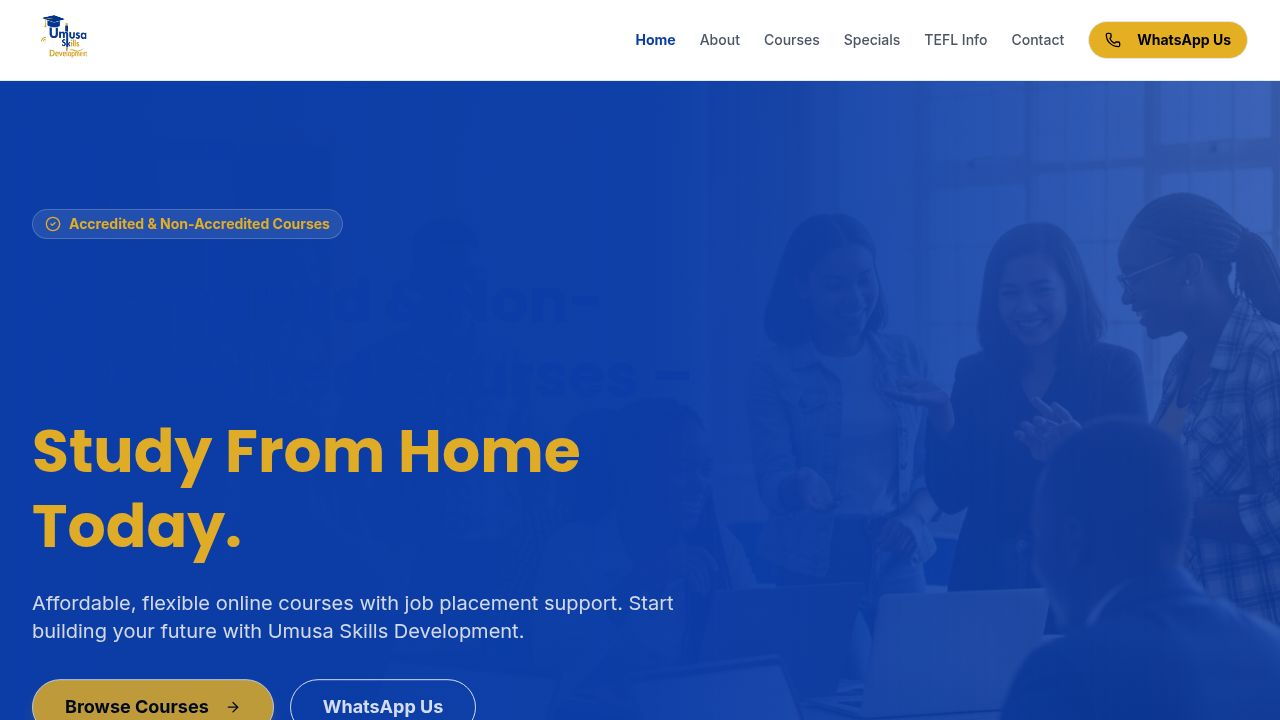
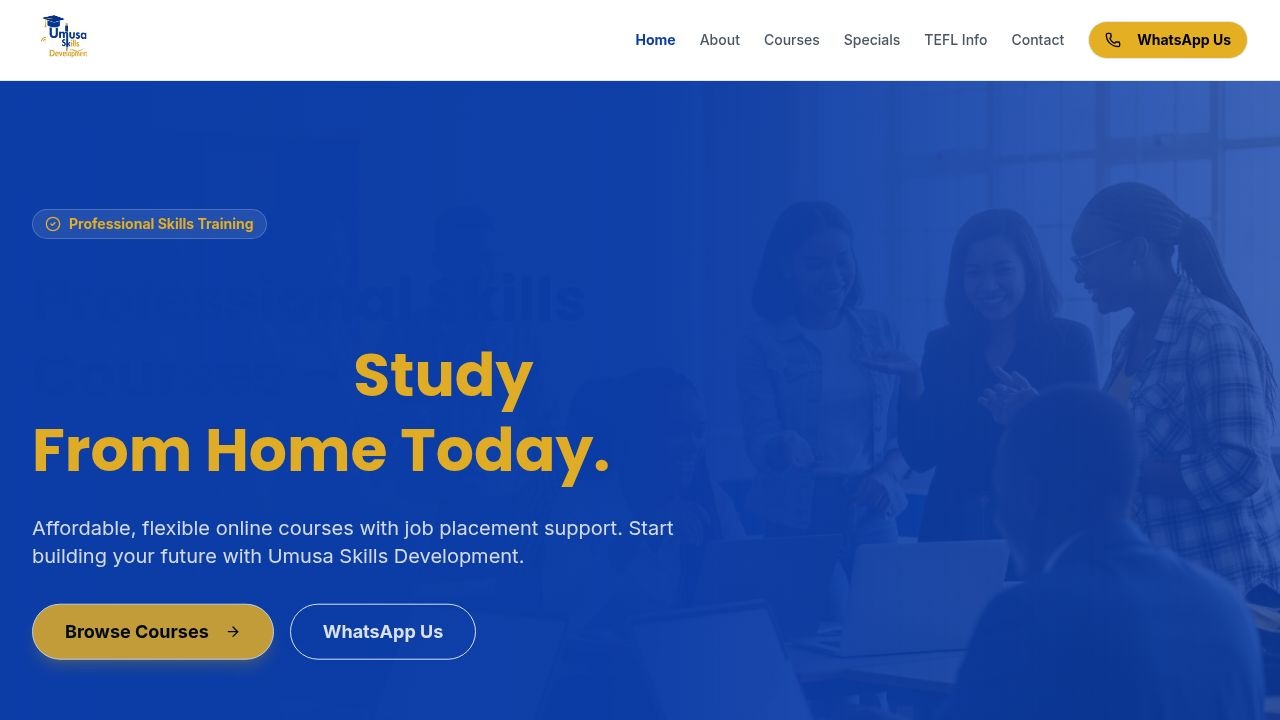
Remove accredited courses from website listings
Removes QCTO courses from constants, contact form dropdown, and course card logic. Updates Hero, About, Courses, and Home page copy to reflect a focus on "Professional Skills Training" rather than accredited/non-accredited distinctions. Adjusts Specials page copy and Home page promo banner.

Replit-Commit-Author: Agent
Replit-Commit-Session-Id: 4625761d-789d-48bb-b031-1900678481e6
Replit-Commit-Checkpoint-Type: full_checkpoint
Replit-Commit-Event-Id: 75a178ed-ae80-4335-b8ac-8633144ecca5
Replit-Commit-Screenshot-Url: https://storage.googleapis.com/screenshot-production-us-central1/71c92c70-5b42-4bcb-acd3-e33669495b83/4625761d-789d-48bb-b031-1900678481e6/Fhgc4hh
Replit-Helium-Checkpoint-Created: true

diff --git a/client/src/pages/Courses.tsx b/client/src/pages/Courses.tsx
@@ -3,8 +3,7 @@ import Layout from "@/components/layout/Layout";
 import CourseCard from "@/components/ui/CourseCard";
 import { Button } from "@/components/ui/button";
 import { Input } from "@/components/ui/input";
-import { Tabs, TabsContent, TabsList, TabsTrigger } from "@/components/ui/tabs";
-import { GENERAL_COURSES, QCTO_COURSES } from "@/lib/constants";
+import { GENERAL_COURSES } from "@/lib/constants";
 import { Search } from "lucide-react";
 import tradesImage from "@assets/generated_images/trades_training_for_courses_page.png";
 
@@ -25,7 +24,7 @@ export default function Courses() {
         <div className="container relative z-10 mx-auto px-4 md:px-8 text-center">
           <h1 className="text-4xl md:text-5xl font-bold mb-6 font-heading">Our Courses</h1>
           <p className="text-xl text-blue-100 max-w-2xl mx-auto mb-8">
-            Explore our wide range of accredited and non-accredited courses designed to get you hired.
+            Explore our wide range of professional skills courses designed to get you hired.
           </p>
           <div className="max-w-md mx-auto relative">
             <Search className="absolute left-3 top-1/2 -translate-y-1/2 text-gray-400 w-5 h-5" />
@@ -40,50 +39,16 @@ export default function Courses() {
       </div>
 
       <div className="container mx-auto px-4 md:px-8 py-12">
-        <Tabs defaultValue="general" className="w-full">
-          <div className="flex justify-center mb-12">
-            <TabsList className="h-auto p-1 bg-gray-100 rounded-full">
-              <TabsTrigger 
-                value="general" 
-                className="rounded-full px-8 py-3 text-base font-medium data-[state=active]:bg-brand-blue data-[state=active]:text-white transition-all"
-              >
-                General Courses
-              </TabsTrigger>
-              <TabsTrigger 
-                value="qcto" 
-                className="rounded-full px-8 py-3 text-base font-medium data-[state=active]:bg-brand-blue data-[state=active]:text-white transition-all"
-              >
-                QCTO Accredited
-              </TabsTrigger>
-            </TabsList>
-          </div>
-
-          <TabsContent value="general">
-            <div className="grid grid-cols-1 sm:grid-cols-2 lg:grid-cols-3 xl:grid-cols-4 gap-6">
-              {filterCourses(GENERAL_COURSES).map((course) => (
-                <CourseCard 
-                  key={course} 
-                  title={course} 
-                  category="General"
-                  image={tradesImage} // Placeholder reuse
-                />
-              ))}
-            </div>
-          </TabsContent>
-
-          <TabsContent value="qcto">
-            <div className="grid grid-cols-1 sm:grid-cols-2 lg:grid-cols-3 xl:grid-cols-4 gap-6">
-              {filterCourses(QCTO_COURSES).map((course) => (
-                <CourseCard 
-                  key={course} 
-                  title={course} 
-                  category="QCTO Accredited"
-                  image={tradesImage} // Placeholder reuse
-                />
-              ))}
-            </div>
-          </TabsContent>
-        </Tabs>
+        <div className="grid grid-cols-1 sm:grid-cols-2 lg:grid-cols-3 xl:grid-cols-4 gap-6">
+          {filterCourses(GENERAL_COURSES).map((course) => (
+            <CourseCard 
+              key={course} 
+              title={course} 
+              category="Professional Skills"
+              image={tradesImage} // Placeholder reuse
+            />
+          ))}
+        </div>
 
         {/* Info Box */}
         <div className="mt-20 bg-yellow-50 border border-yellow-100 rounded-2xl p-8 text-center max-w-3xl mx-auto">

diff --git a/client/src/pages/Home.tsx b/client/src/pages/Home.tsx
@@ -6,10 +6,9 @@ import { GENERAL_COURSES, TESTIMONIALS } from "@/lib/constants";
 import {
   ArrowRight,
   Star,
-  ShieldCheck,
+  CheckCircle,
   Laptop,
   Users,
-  Trophy,
 } from "lucide-react";
 import { Link } from "wouter";
 import officeImage from "@assets/generated_images/office_administration_training.png";
@@ -43,9 +42,9 @@ export default function Home() {
           <div className="grid grid-cols-1 md:grid-cols-3 gap-8">
             {[
               {
-                icon: ShieldCheck,
-                title: "Accredited Training",
-                desc: "Recognized qualifications that open doors to employment.",
+                icon: CheckCircle,
+                title: "Quality Training",
+                desc: "Comprehensive skills training designed for the workplace.",
               },
               {
                 icon: Laptop,
@@ -98,7 +97,7 @@ export default function Home() {
               <CourseCard
                 key={course}
                 title={course}
-                category="General"
+                category="Professional Skills"
                 image={course.includes("TEFL") ? teflImage : officeImage}
                 featured={i === 0}
               />
@@ -112,21 +111,20 @@ export default function Home() {
         <div className="absolute inset-0 bg-[url('https://images.unsplash.com/photo-1517245386807-bb43f82c33c4?auto=format&fit=crop&q=80')] opacity-10 bg-cover bg-center mix-blend-overlay" />
         <div className="container relative z-10 mx-auto px-4 md:px-8 text-center">
           <span className="inline-block px-4 py-1 rounded-full bg-brand-gold text-black font-bold text-sm mb-6 animate-pulse">
-            LIMITED TIME OFFER
+            MONTHLY SPECIALS
           </span>
           <h2 className="text-4xl md:text-5xl font-bold mb-6 font-heading">
-            Black Friday Specials On Now!
+            Unlock Your Potential for Less
           </h2>
           <p className="text-xl text-blue-100 mb-8 max-w-2xl mx-auto">
-            Get your Free TEFL Certificate + R2000 Study Guide included when you
-            register today.
+            Check out our latest special offers and save on your registration and course fees.
           </p>
           <Button
             asChild
             size="lg"
             className="bg-white text-brand-blue hover:bg-gray-100 font-bold h-14 px-8 text-lg rounded-full"
           >
-            <Link href="/specials">Claim Offer Now</Link>
+            <Link href="/specials">View Current Specials</Link>
           </Button>
         </div>
       </section>

diff --git a/client/src/lib/constants.ts b/client/src/lib/constants.ts
@@ -31,21 +31,7 @@ export const GENERAL_COURSES = [
   "Personal Development", "Digital Marketing"
 ];
 
-export const QCTO_COURSES = [
-  "Plumbing Hand", "Assistant Baker", "Shielded Metal Arc", "Hairstylist",
-  "Coded Welding", "Field Ranger", "Wheel Balancer", "Java Programmer",
-  "Cybersecurity Defender", "Front-End Web Designer", "Python Programmer",
-  "Occupational Health and Safety Assistant", "Office Administrator",
-  "Project Manager", "Social Auxiliary Worker", "Social Counselling Worker",
-  "Home Based Personal Care Worker", "Nail Therapist", "Assessment Practitioner",
-  "Assistant Life Coach", "Intermediate Emergency First Aid Responder",
-  "Workplace Preparedness", "Community Development Worker",
-  "Learning & Development Facilitator", "Assistant Handyperson",
-  "Job Placement Facilitator", "Workplace Essential Skills",
-  "Career Development Information Officer", "Bookkeeper",
-  "Early Childhood Development Practitioner", "Christian Religious Professional",
-  "Early Childhood Caregiver", "Technopreneur", "New Venture Creation"
-];
+// Removed QCTO_COURSES as per request to remove accredited courses
 
 export const TESTIMONIALS = [
   {

diff --git a/client/src/components/forms/ContactForm.tsx b/client/src/components/forms/ContactForm.tsx
@@ -14,7 +14,7 @@ import { Input } from "@/components/ui/input";
 import { Textarea } from "@/components/ui/textarea";
 import { Select, SelectContent, SelectItem, SelectTrigger, SelectValue } from "@/components/ui/select";
 import { useToast } from "@/hooks/use-toast";
-import { GENERAL_COURSES, QCTO_COURSES } from "@/lib/constants";
+import { GENERAL_COURSES } from "@/lib/constants";
 import { Loader2, Send } from "lucide-react";
 import { useState } from "react";
 
@@ -70,7 +70,7 @@ export default function ContactForm() {
     }
   }
 
-  const allCourses = [...GENERAL_COURSES, ...QCTO_COURSES].sort();
+  const allCourses = [...GENERAL_COURSES].sort();
 
   return (
     <Form {...form}>

diff --git a/client/src/components/sections/Hero.tsx b/client/src/components/sections/Hero.tsx
@@ -21,11 +21,11 @@ export default function Hero() {
         <div className="max-w-2xl text-white">
           <div className="inline-flex items-center gap-2 px-3 py-1 rounded-full bg-white/10 backdrop-blur-sm border border-white/20 text-brand-gold text-sm font-bold mb-6 animate-in fade-in slide-in-from-bottom-4 duration-700">
             <CheckCircle2 className="w-4 h-4" />
-            <span>Accredited & Non-Accredited Courses</span>
+            <span>Professional Skills Training</span>
           </div>
 
           <h1 className="text-4xl md:text-6xl font-bold font-heading leading-tight mb-6 animate-in fade-in slide-in-from-bottom-6 duration-700 delay-100">
-            Accredited & Non-Accredited Courses –{" "}
+            Professional Skills Courses –{" "}
             <span className="text-brand-gold">Study From Home Today.</span>
           </h1>
 

diff --git a/client/src/components/ui/CourseCard.tsx b/client/src/components/ui/CourseCard.tsx
@@ -6,7 +6,7 @@ import { Link } from "wouter";
 
 interface CourseCardProps {
   title: string;
-  category: "General" | "QCTO Accredited";
+  category: string;
   description?: string;
   duration?: string;
   image?: string;
@@ -36,7 +36,7 @@ export default function CourseCard({
           </div>
         )}
         <div className="absolute top-4 right-4">
-          <Badge className={category === "QCTO Accredited" ? "bg-brand-blue text-white" : "bg-brand-gold text-black"}>
+          <Badge className="bg-brand-gold text-black">
             {category}
           </Badge>
         </div>

diff --git a/client/src/pages/About.tsx b/client/src/pages/About.tsx
@@ -74,7 +74,7 @@ export default function About() {
           <h2 className="text-3xl font-bold text-center text-brand-blue mb-12">What We Offer</h2>
           <div className="grid grid-cols-1 sm:grid-cols-2 lg:grid-cols-3 gap-6">
             {[
-              "Accredited & Non-Accredited Courses",
+              "Professional Skills Courses",
               "Lifetime Support & Guidance",
               "Study-From-Home Flexibility",
               "Free Readiness Programs",

diff --git a/client/src/pages/Specials.tsx b/client/src/pages/Specials.tsx
@@ -20,7 +20,7 @@ export default function Specials() {
             Monthly Specials
           </h1>
           <h2 className="text-2xl md:text-3xl font-bold text-gray-300 mb-12 max-w-3xl mx-auto">
-            We regularly update this page with exclusive deals on our accredited and non-accredited courses.
+            We regularly update this page with exclusive deals on our training courses.
           </h2>
 
           <div className="grid grid-cols-1 md:grid-cols-2 gap-8 max-w-4xl mx-auto mb-12">